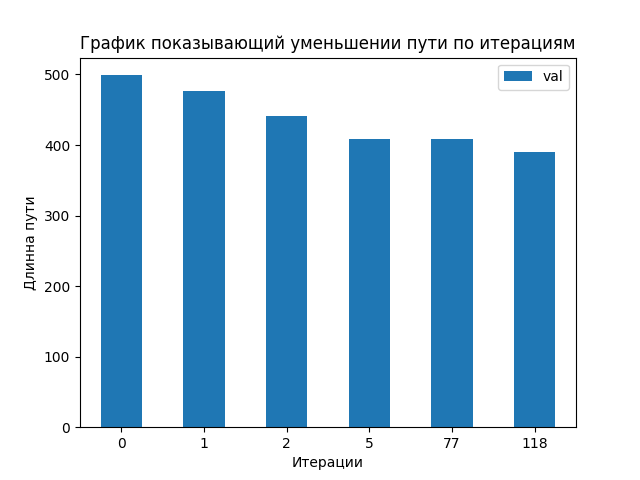
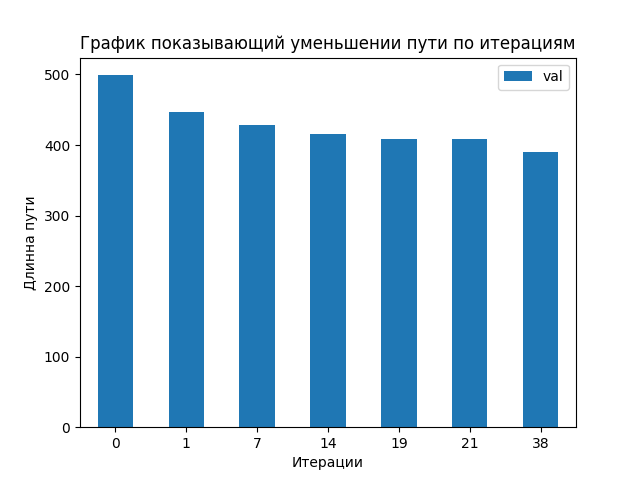
ЕЕЕ я сделаль v3.0

Changed region(s): [[0.25, 0.1875, 0.875, 0.9375], [0.1562, 0.1562, 0.2188, 0.9375], [0.8125, 0.9062, 0.875, 0.9375]]

diff --git a/programm/program_v2.py b/programm/program_v2.py
@@ -1,5 +1,7 @@
 import math
 import random
+import time
+
 import networkx as nx
 import matplotlib.pyplot as plt
 import pandas as pd
@@ -10,7 +12,7 @@ def graph_construction(k_iteration_max, count_of_vertices, minimum_temperature):
     mass_iteration = [0]
     mass_all_trail_weight = []
     mass_all_trail = []
-    mass_temperature = [100]
+    mass_temperature = [250]
     mass_changes = []
     mass_iteration_count = [0]
 
@@ -23,8 +25,8 @@ def graph_construction(k_iteration_max, count_of_vertices, minimum_temperature):
     nx.draw_networkx_edge_labels(graph, pos, edge_labels=edge_labels)
     plt.savefig('../static/1.png')
     while mass_temperature[-1] > minimum_temperature and k_iteration_max + 1 > len(mass_iteration):
-        print()
-        random_change_road(mass_all_trail, count_of_vertices, mass_changes)
+        x = random_change_road(mass_all_trail, count_of_vertices)
+        mass_all_trail.append(x)
         length_trail_new = calculation_length_trail_new(mass_all_trail[-1], table_graph)
         annealing(mass_all_trail_weight, length_trail_new, mass_iteration,
                   mass_temperature, mass_iteration_count, mass_all_trail)
@@ -38,9 +40,10 @@ def graph_construction(k_iteration_max, count_of_vertices, minimum_temperature):
     for i in mass_all_trail[-1]:
         print(i, end=' -> ')
     print(f'\nS = {mass_all_trail_weight[-1]}, ответ найден на - {mass_iteration_count[-1]} шаге')
-    print(f'{mass_iteration_count}  {mass_all_trail_weight}')
     graph_final_data(count_of_vertices, mass_all_trail[-1], table_graph)
     create_plots(mass_iteration_count, mass_all_trail_weight)
+    print(f'{mass_iteration_count}\n{mass_all_trail_weight}\n{mass_all_trail}')
+
 
 
 def create_plots(mass_iteration_count, mass_all_trail_weight):
@@ -100,37 +103,39 @@ def calculation_length_trail_new(last_trail, table_graph):
         for j in range(len(table_graph)):
             if last_trail[i] == table_graph[j][0] and last_trail[i + 1] == table_graph[j][1] or \
                     last_trail[i + 1] == table_graph[j][0] and last_trail[i] == table_graph[j][1]:
-                # print(last_trail[i], '  ', table_graph[j][0])
-                # print(last_trail[i + 1], '  ', table_graph[j][1])
-                # print(last_trail[i + 1], '  ', table_graph[j][0])
-                # print(last_trail[i], '  ', table_graph[j][1])
                 length_original_route += table_graph[j][2]
     return length_original_route
 
 
-def random_change_road(mass_all_trail, count_of_vertices, mass_changes):
-    trail_change_mass = mass_all_trail[-1]
-    mass_to_changes = False
+def cam(new_mass_all_trail):
+    ops = []
+    for i in new_mass_all_trail:
+        ops.append(str(i))
+    for i in range(len(ops)):
+        ops[i] = int(ops[i])
+    return ops
+
+
+def random_change_road(new_mass_all_trail, count_of_vertices):
+    new_trail_new = cam(new_mass_all_trail[-1])
     close_peaks = False
-    while mass_to_changes is not True:
+    while True:
         first_number = round(random.randrange(1, count_of_vertices))
         second_number = round(random.randrange(1, count_of_vertices))
         if first_number != second_number:
-            for i in range(1, len(trail_change_mass)-1):
-                if trail_change_mass[i] == first_number and trail_change_mass[i + 1] == second_number \
-                        or trail_change_mass[i + 1] == first_number and trail_change_mass[i] == second_number:
+            for i in range(1, len(new_trail_new) - 1):
+                if new_trail_new[i] == first_number and new_trail_new[i + 1] == second_number \
+                        or new_trail_new[i + 1] == first_number and new_trail_new[i] == second_number:
                     close_peaks = True
-            if not close_peaks:
-                for i in range(len(trail_change_mass)):
-                    if trail_change_mass[i] == second_number:
-                        trail_change_mass[i] = first_number
-                    elif trail_change_mass[i] == first_number:
-                        trail_change_mass[i] = second_number
-                if trail_change_mass in mass_all_trail:
-                    mass_changes.append([first_number, second_number])
-                    mass_to_changes = True
-                    mass_all_trail.append(trail_change_mass)
+            if close_peaks is False:
+                for j in range(len(new_trail_new)):
+                    if new_trail_new[j] == second_number:
+                        new_trail_new[j] = first_number
+                    elif new_trail_new[j] == first_number:
+                        new_trail_new[j] = second_number
+                return new_trail_new
         close_peaks = False
+
     # print(f'Рассмотрим новый путь №{mass_iteration[-1]} = ', end='')
     # for i in trail_change_mass:
     #     print(i, end=' -> ')
@@ -177,7 +182,7 @@ def annealing(mass_all_trail_weight, new_trail, mass_iteration, mass_temperature
             print(f'{p} < {random_p}')
             print('Не принимаем маршрут!')
             print('Старый путь: ')
-            for i in mass_all_trail[mass_iteration_count[-1]-1]:
+            for i in mass_all_trail[mass_iteration_count[-1] - 1]:
                 print(i, end=' -> ')
             print()
             # mass_all_trail_weight.append(mass_all_trail_weight[-1])
@@ -186,7 +191,7 @@ def annealing(mass_all_trail_weight, new_trail, mass_iteration, mass_temperature
 
 def graph_final_data(count_of_vertices, mass_all_trail, table_graph):
     graph_final = nx.Graph()
-    fig2, axs2 = plt.subplots(1)
+    # fig2, axs2 = plt.subplots(1)
     for i in range(len(mass_all_trail) - 1):
         for j in range(len(table_graph)):
             if mass_all_trail[i] == table_graph[j][0] and mass_all_trail[i + 1] == table_graph[j][1] or \
@@ -206,7 +211,7 @@ if __name__ == '__main__':
     k_iteration_max = 200
     # k_iteration_max = 400
     # k_iteration_max = int(input("Введите минимаотную температуру: "))
-    minimum_temperature = 20
+    minimum_temperature = 25
 
     graph_construction(k_iteration_max, count_of_vertices, minimum_temperature)
     # plt.show()
